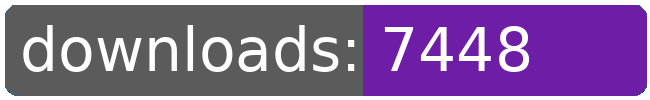
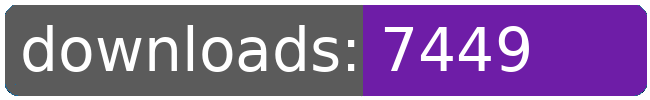
dl log written

Changed region(s): [[0.7692, 0.27, 0.8308, 0.72]]

diff --git a/README.md b/README.md
@@ -21,8 +21,8 @@
 		<td>7374</td>
 		<td>7400</td>
 		<td>7425</td>
-		<td>7448</td>
-		<td>+ 23</td>
+		<td>7449</td>
+		<td>+ 24</td>
 	</tr>
 	<tr>
 		<td>aberrant.kahet.outfitter</td>
@@ -274,8 +274,8 @@
 		<td></td>
 		<td></td>
 		<td></td>
-		<td>108794</td>
-		<td>448</td>
+		<td>108795</td>
+		<td>449</td>
 	</tr>
 </table>
 </sub></sup>
@@ -300,8 +300,8 @@
 		<td>7374</td>
 		<td>7400</td>
 		<td>7425</td>
-		<td>7448</td>
-		<td>+ 23</td>
+		<td>7449</td>
+		<td>+ 24</td>
 	</tr>
 	<tr>
 		<td>aberrant.kahet.outfitter</td>
@@ -553,8 +553,8 @@
 		<td></td>
 		<td></td>
 		<td></td>
-		<td>108794</td>
-		<td>448</td>
+		<td>108795</td>
+		<td>449</td>
 	</tr>
 </table>
 </sub></sup>
